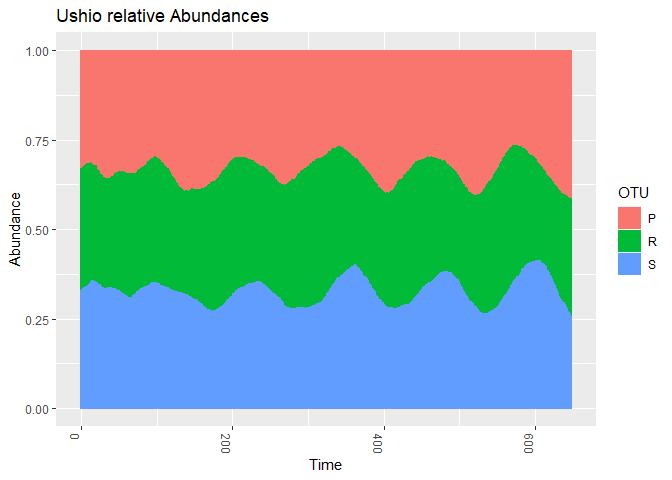
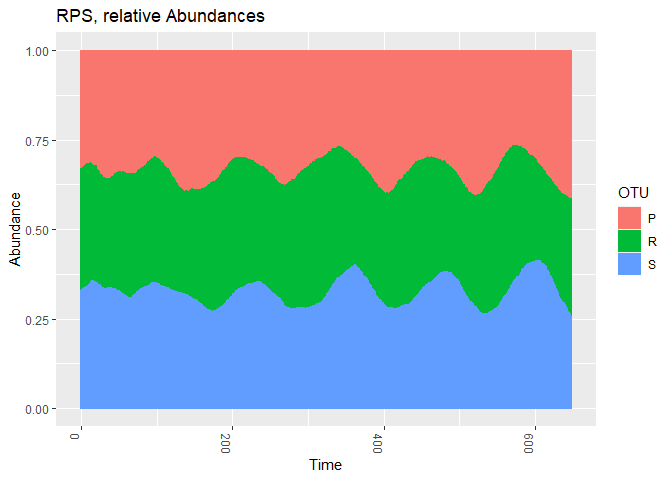
update timeseries from NODEBNGM paper

Changed region(s): [[0.0938, 0.0, 0.4062, 0.0625]]

diff --git a/explore/01f-timeseries-NODEBNGMpaper.md b/explore/01f-timeseries-NODEBNGMpaper.md
@@ -1,12 +1,13 @@
 01f-timeseries-NODEBNGMpaper
 ================
-Compiled at 2023-11-09 10:46:23 UTC
+Compiled at 2023-11-10 15:59:29 UTC
 
 ``` r
 here::i_am(paste0(params$name, ".Rmd"), uuid = "9506fa44-f8a3-401c-aa4c-950659e05f3f")
 ```
 
-The purpose of this document is …
+The purpose of this document is to collect the datasets from
+<https://github.com/WillemBonnaffe/NODEBNGM/tree/main/data> .
 
 ``` r
 library("conflicted")
@@ -225,7 +226,7 @@ ps_RPS_rel_counts <-
 # bar plot phyloseq objects
 plot_bar(ps_RPS_rel_counts, x = "Time", fill = "OTU") +
   geom_bar(aes(color = OTU, fill = OTU), stat = "identity", position = "stack") +
-  labs(title = "Ushio relative Abundances",
+  labs(title = "RPS, relative Abundances",
        x = "Time")
 ```
 
@@ -281,19 +282,19 @@ projthis::proj_dir_info(path_target())
     ## # A tibble: 16 × 4
     ##    path                  type         size modification_time  
     ##    <fs::path>            <fct> <fs::bytes> <dttm>             
-    ##  1 ps_3DLV.rds           file        2.04K 2023-11-09 10:46:31
-    ##  2 ps_AFR1.rds           file         2.2K 2023-11-09 10:46:31
-    ##  3 ps_AFR2.rds           file        1.63K 2023-11-09 10:46:31
-    ##  4 ps_AFR3.rds           file        1.49K 2023-11-09 10:46:31
-    ##  5 ps_HL.rds             file        1.44K 2023-11-09 10:46:31
-    ##  6 ps_RPS.rds            file        7.99K 2023-11-09 10:46:31
-    ##  7 ps_RPS_rel_counts.rds file       18.22K 2023-11-09 10:46:31
-    ##  8 ps_Ushio.rds          file       12.23K 2023-11-09 10:46:31
-    ##  9 ts_3DLV.csv           file        3.41K 2023-11-09 10:46:31
-    ## 10 ts_AFR1.csv           file        3.91K 2023-11-09 10:46:31
-    ## 11 ts_AFR2.csv           file        3.81K 2023-11-09 10:46:31
-    ## 12 ts_AFR3.csv           file        2.37K 2023-11-09 10:46:31
-    ## 13 ts_HL.csv             file        1.56K 2023-11-09 10:46:31
-    ## 14 ts_RPS.csv            file       12.57K 2023-11-09 10:46:31
-    ## 15 ts_RPS_rel_counts.csv file       36.97K 2023-11-09 10:46:31
-    ## 16 ts_Ushio.csv          file       13.14K 2023-11-09 10:46:31
+    ##  1 ps_3DLV.rds           file        2.04K 2023-11-10 15:59:36
+    ##  2 ps_AFR1.rds           file         2.2K 2023-11-10 15:59:36
+    ##  3 ps_AFR2.rds           file        1.63K 2023-11-10 15:59:36
+    ##  4 ps_AFR3.rds           file        1.49K 2023-11-10 15:59:36
+    ##  5 ps_HL.rds             file        1.44K 2023-11-10 15:59:36
+    ##  6 ps_RPS.rds            file        7.99K 2023-11-10 15:59:36
+    ##  7 ps_RPS_rel_counts.rds file       18.22K 2023-11-10 15:59:36
+    ##  8 ps_Ushio.rds          file       12.23K 2023-11-10 15:59:36
+    ##  9 ts_3DLV.csv           file        3.41K 2023-11-10 15:59:37
+    ## 10 ts_AFR1.csv           file        3.91K 2023-11-10 15:59:37
+    ## 11 ts_AFR2.csv           file        3.81K 2023-11-10 15:59:37
+    ## 12 ts_AFR3.csv           file        2.37K 2023-11-10 15:59:37
+    ## 13 ts_HL.csv             file        1.56K 2023-11-10 15:59:37
+    ## 14 ts_RPS.csv            file       12.57K 2023-11-10 15:59:37
+    ## 15 ts_RPS_rel_counts.csv file       36.97K 2023-11-10 15:59:37
+    ## 16 ts_Ushio.csv          file       13.14K 2023-11-10 15:59:37
